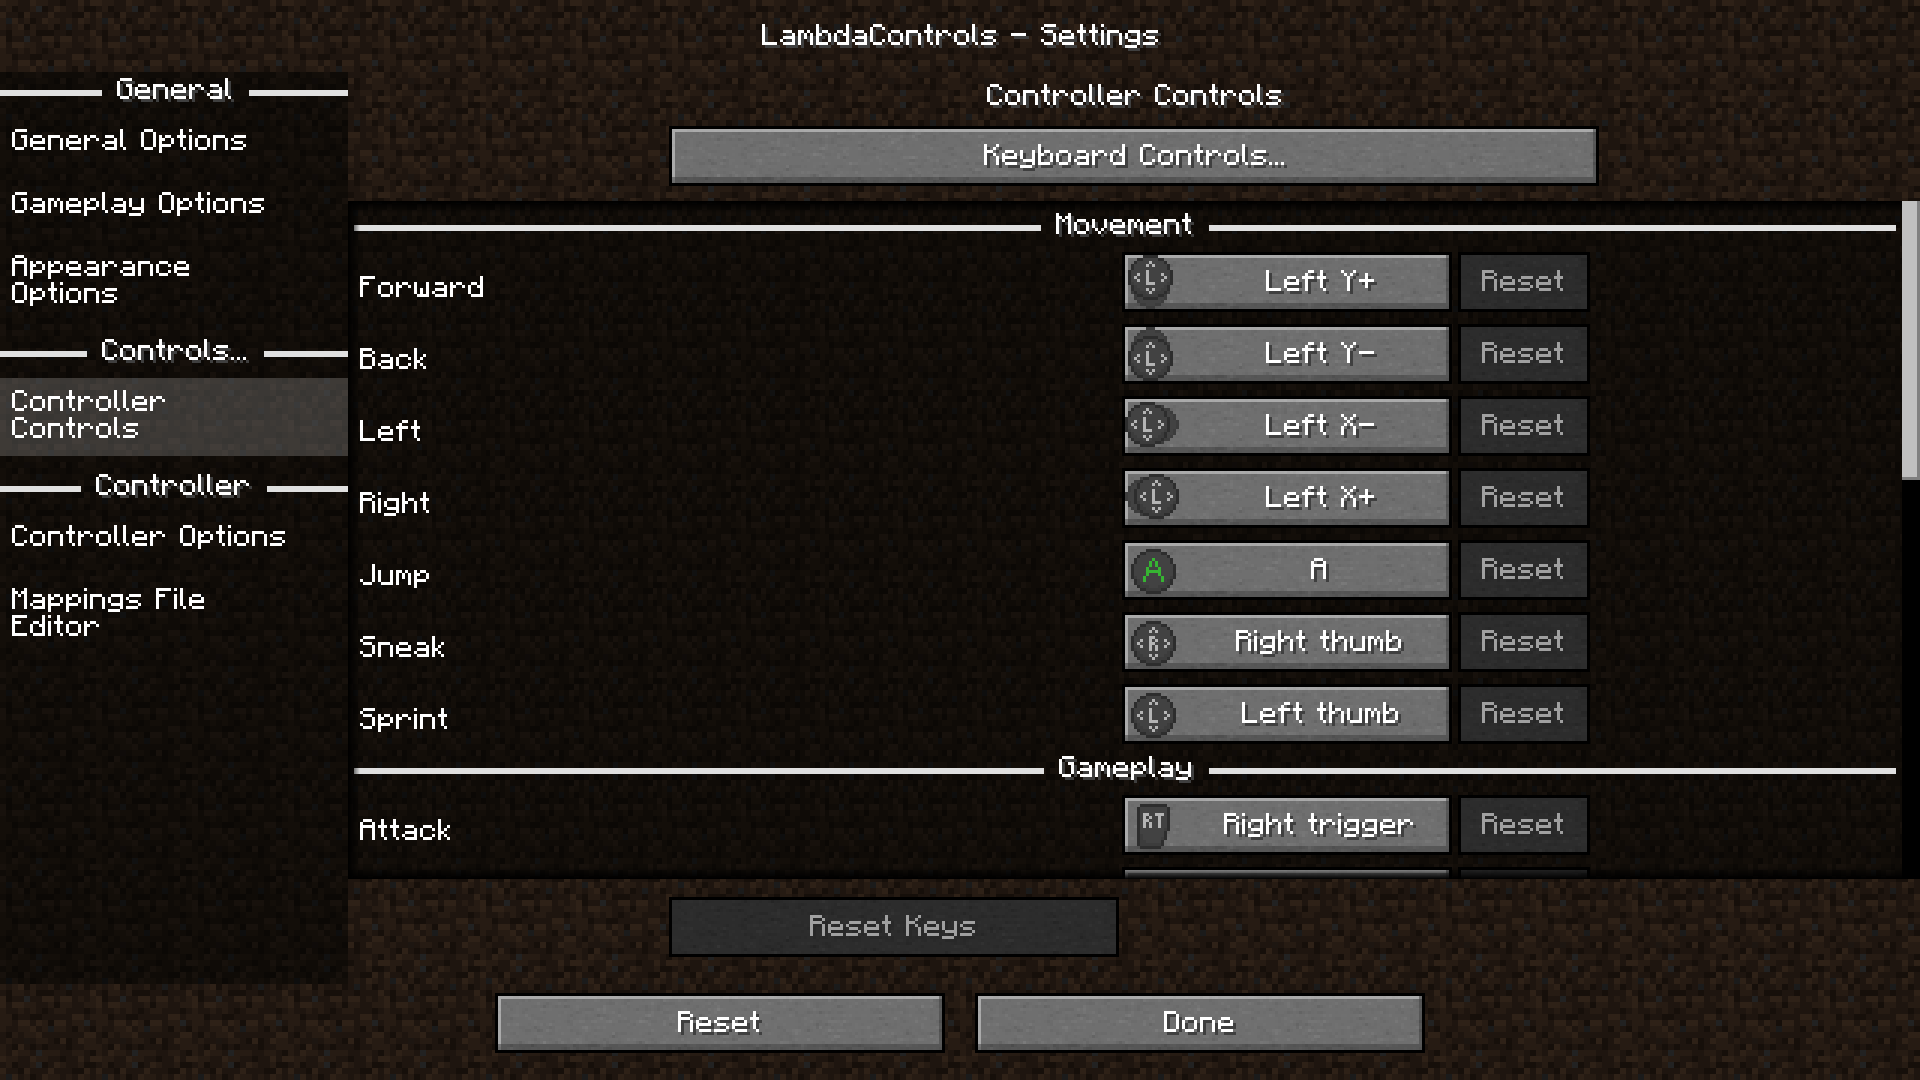
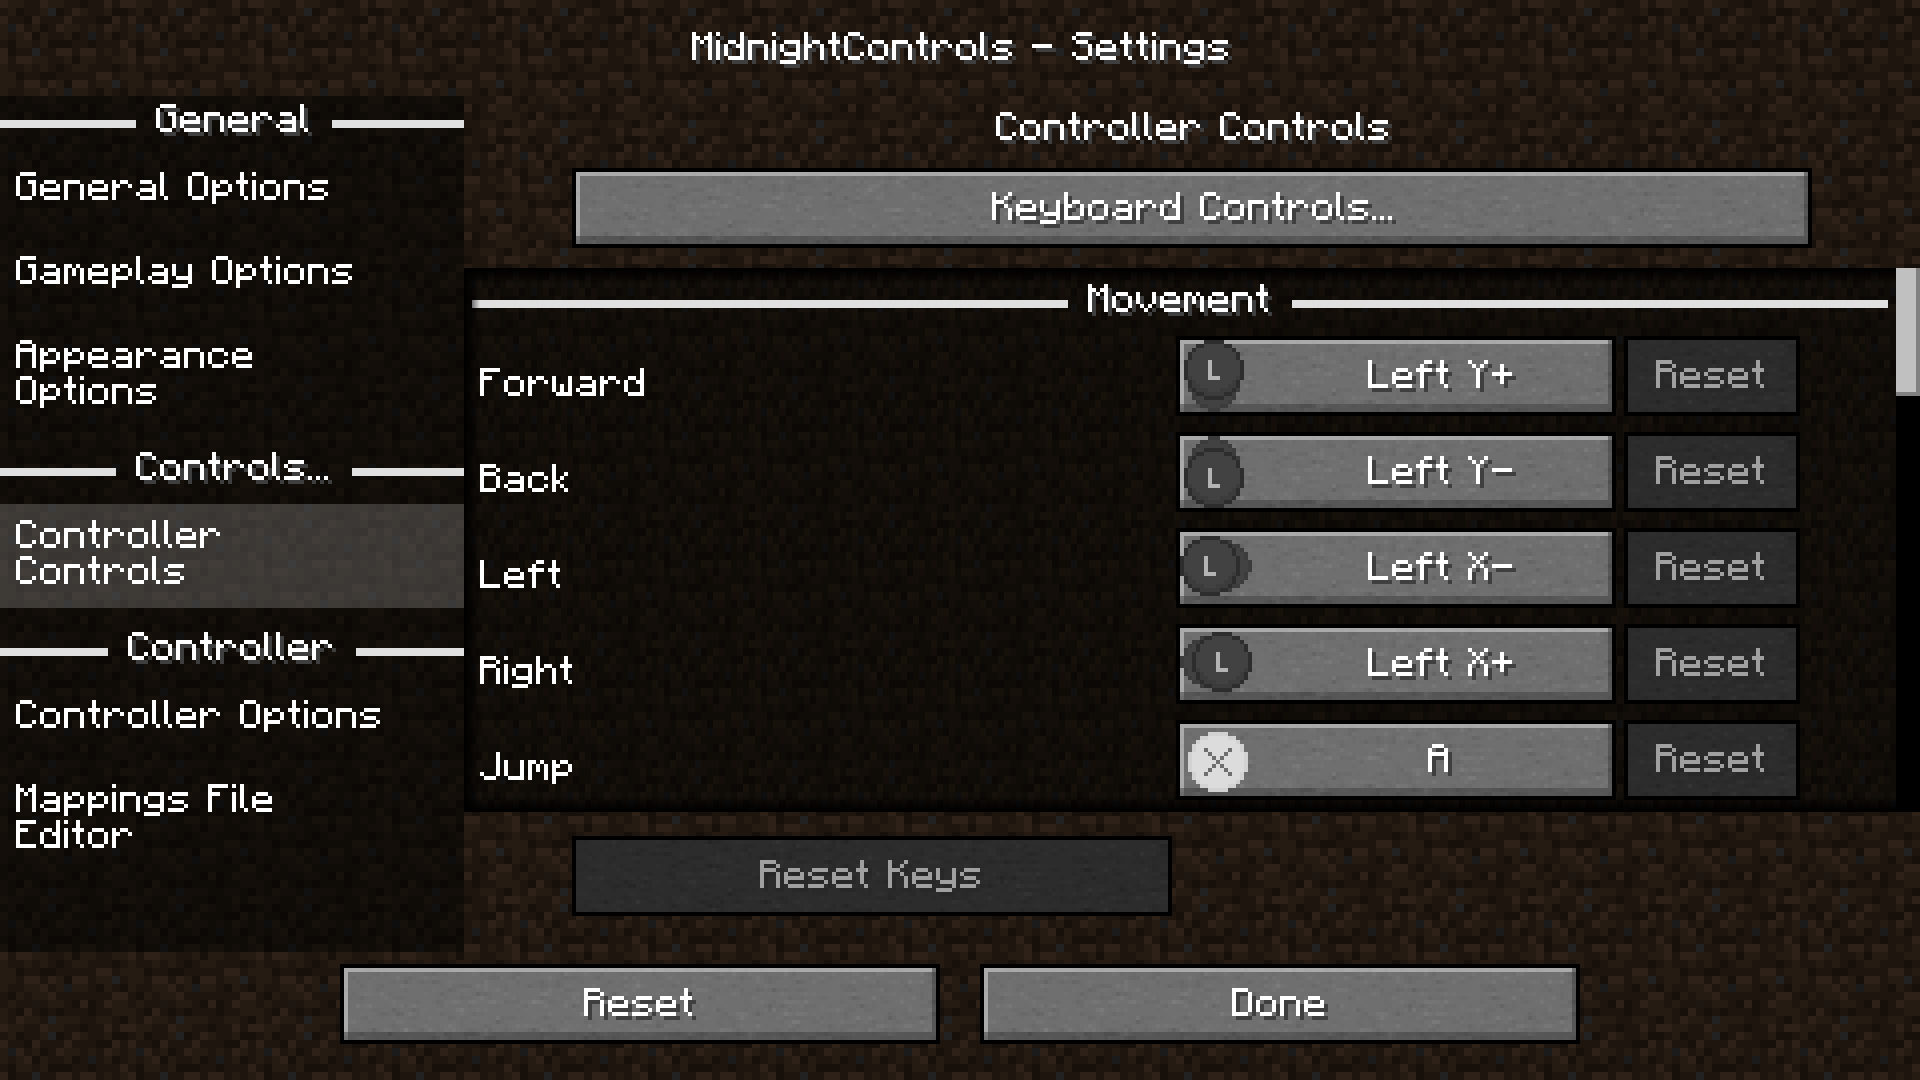
Update metafiles

diff --git a/CONTRIBUTING.md b/CONTRIBUTING.md
@@ -2,7 +2,7 @@
 
 :tada: First of all, thanks for taking time to contribute! :tada:
 
-The following is a set of guidelines for contributing to midnightcontrols. 
+The following is a set of guidelines for contributing to MidnightControls.
 Feel free to propose changes to this document in a pull request.
 
 **Table of Contents**
@@ -18,7 +18,7 @@ Feel free to propose changes to this document in a pull request.
 ## Code of Conduct
 
 This project and everyone participating in it is governed by the [Code of Conduct](https://github.com/LambdAurora/midnightcontrols/blob/master/CODE_OF_CONDUCT.md).
-By participating, you are expected to uphold this code. Please report unacceptable behavior at [aurora42lambda@gmail.com](mailto:aurora42lambda@gmail.com).
+By participating, you are expected to uphold this code. Please report unacceptable behavior at [motschen@midnightdust.eu](mailto:motschen@midnightdust.eu).
 
 ## What should I know before I get started?
 
@@ -26,9 +26,9 @@ By participating, you are expected to uphold this code. Please report unacceptab
 
 [Fabric](https://fabricmc.net/) is the mod loader and the software which allows Gradle to setup the workspace.
 
-### Java 16
+### Java 17
 
-Java is the main language used to make midnightcontrols alive.
+Java is the main language used to make MidnightControls alive.
 Knowing how to code in Java is necessary if you contribute to the code.
 
 ### Minecraft
@@ -60,12 +60,12 @@ Git commits should be signed.
 
 #### How do I submit a bug report?
 
-Go in the issues tab in GitHub and read the [bug report guide](https://github.com/LambdAurora/midnightcontrols/blob/1.17/.github/ISSUE_TEMPLATE/bug_report.md)
+Go in the issues tab in GitHub and read the [bug report guide](https://github.com/TeamMidnightDust/MidnightControls/blob/1.18/.github/ISSUE_TEMPLATE/bug_report.md)
 
 ### Suggesting enhancements
 
-Enhancement suggestions are tracked as [GitHub issues](https://github.com/LambdAurora/midnightcontrols/issues).
-Check out the [feature request](https://github.com/LambdAurora/midnightcontrols/blob/1.17/.github/ISSUE_TEMPLATE/feature_request.md) guide.
+Enhancement suggestions are tracked as [GitHub issues](https://github.com/TeamMidnightDust/MidnightControls/issues).
+Check out the [feature request](https://github.com/TeamMidnightDust/MidnightControls/blob/1.17/.github/ISSUE_TEMPLATE/feature_request.md) guide.
 
 ### Do pull requests
 
